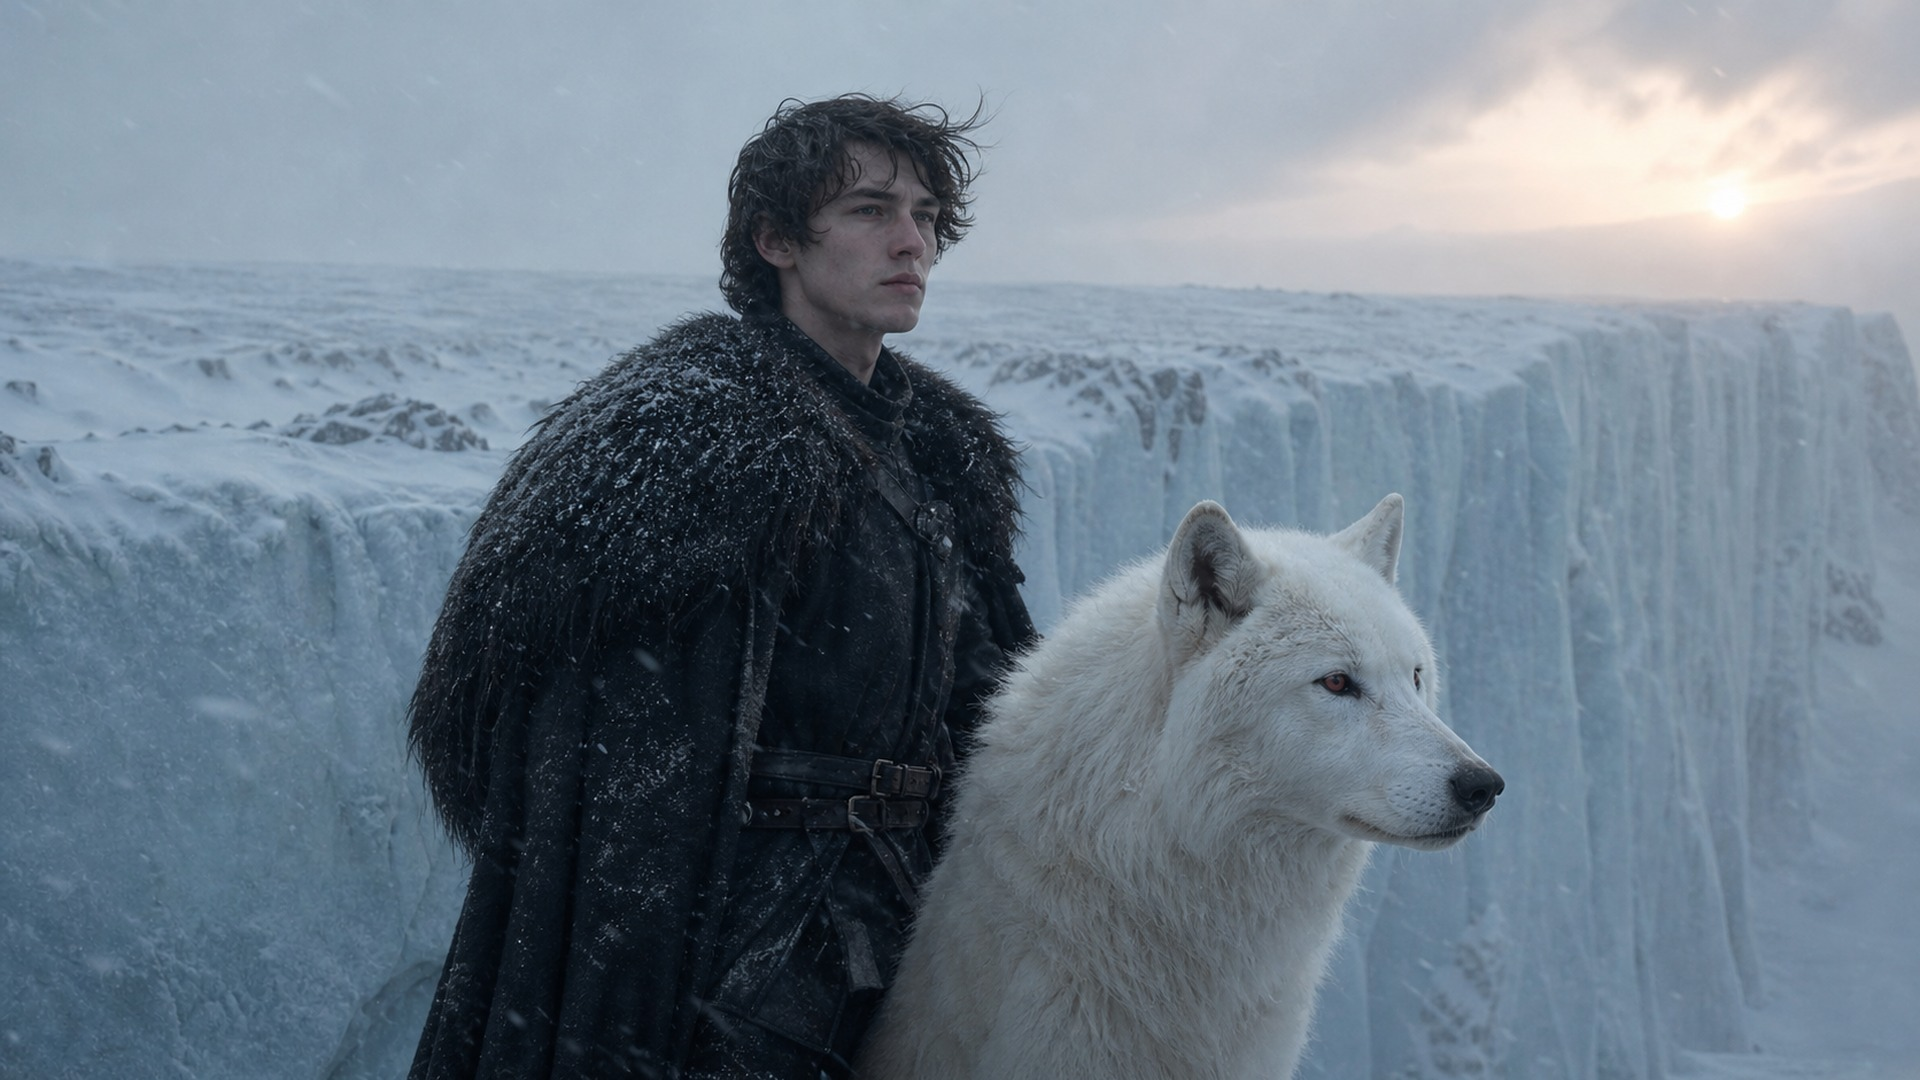
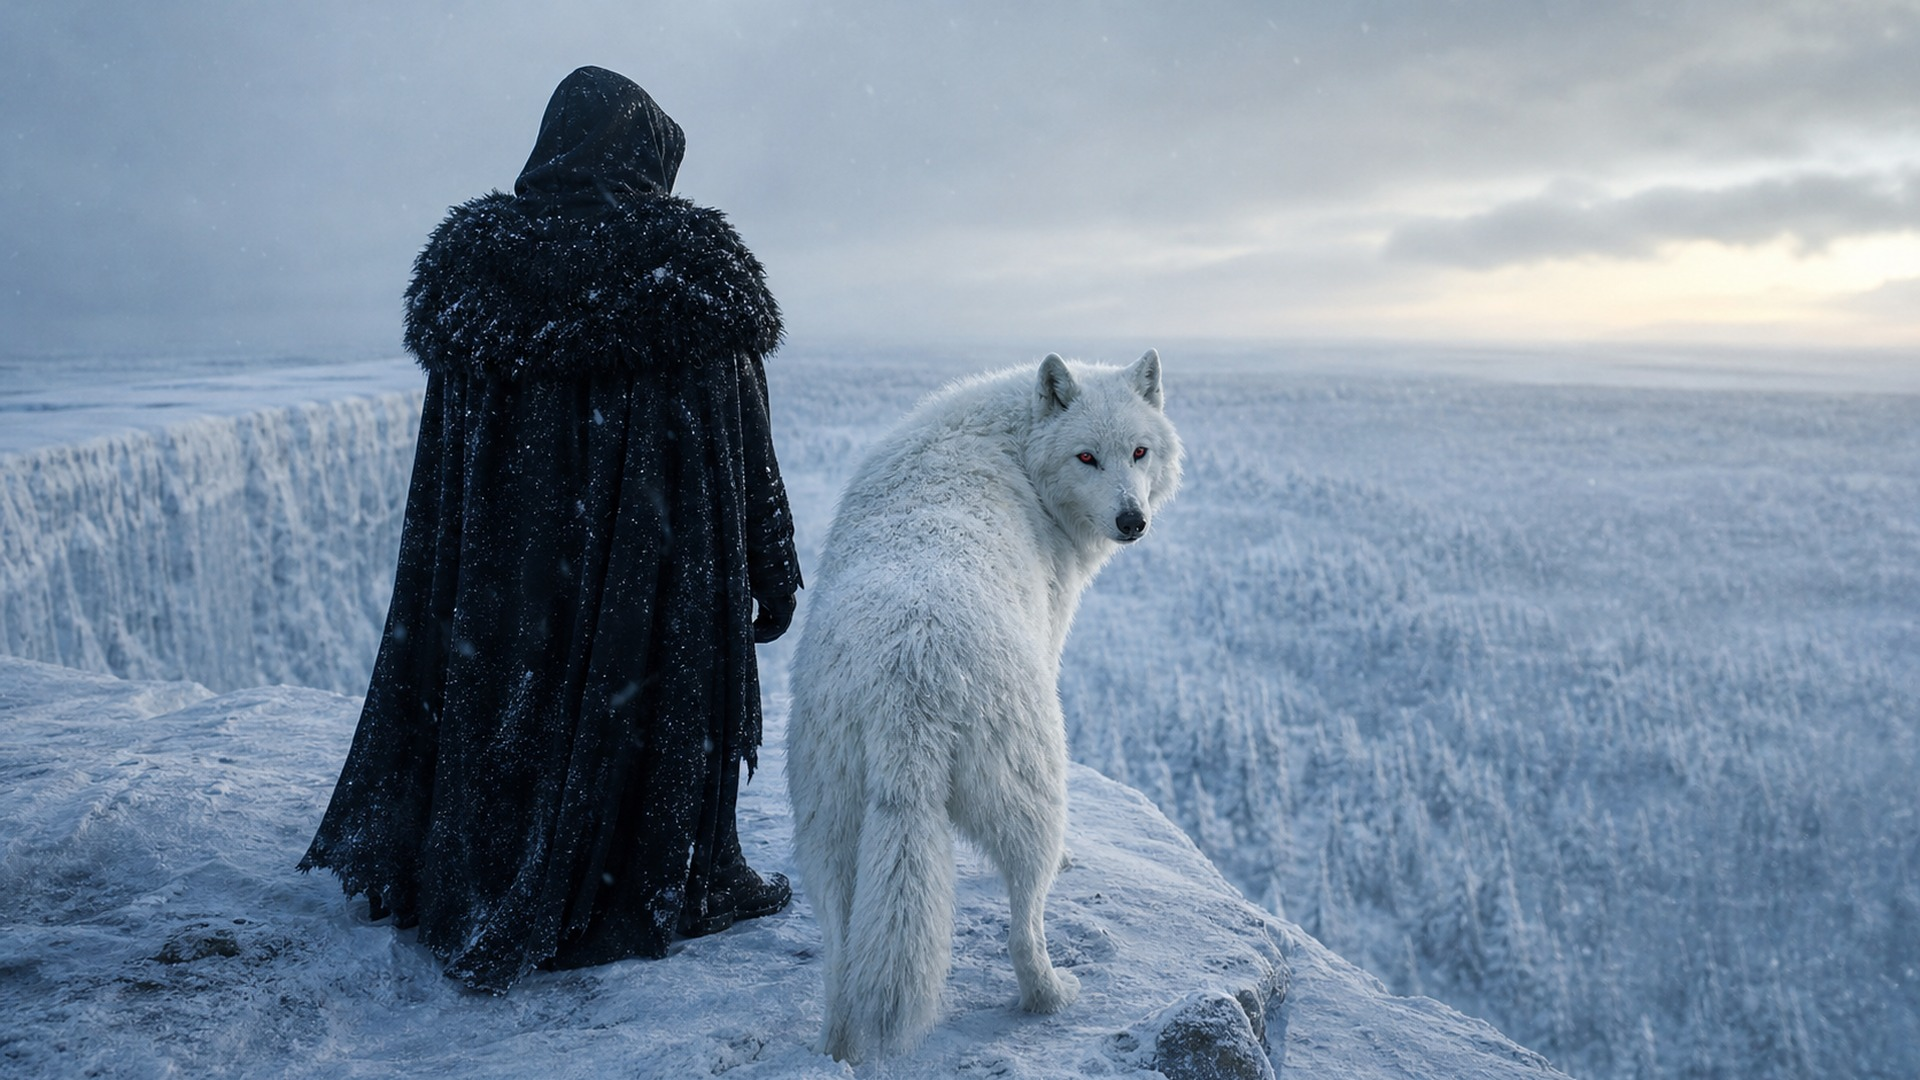
GOT003: BATCH018 9/10; gap-fill BATCH019 3 PASS; tracker v2.91

diff --git a/projects/dune_archives/tools/plans/got003_plan.py b/projects/dune_archives/tools/plans/got003_plan.py
@@ -216,7 +216,18 @@ PLAN = [
  ('X', 37, None, N('GOLDEN_COMPANY_LANDING', 'EW', [], 'a fleet of ships beached on a stormy rocky shore, an army of sellswords in gilded armour wading ashore under plain cloth-of-gold banners on poles topped with gilded skulls, grey sea, rain, a ruined castle on the cliffs above, invasion and ambition, seen from a distance'), 'PAN_RL'),
  ('X', 42, None, N('JON_WALL', 'MS', [], 'seen from behind, a lean young man in the black wool and fur cloak of the Night\'s Watch with a hood up, his face completely hidden, standing on top of the immense Wall of ice at dawn, beside him in sharp focus a large silent pure-white direwolf with red eyes looking back over its shoulder at the viewer, snow blowing, endless white forest to the north, restrained'), 'PUSH_IN'),
  ('X', 47, None, N('CRYPT_LYANNA', 'MS', [], 'a long dark vaulted crypt beneath a northern castle lit by a single torch, rows of stone statues of seated lords with stone direwolves at their feet, in front of one statue of a beautiful young woman carved in grey granite, a single pale blue winter rose lies on the stone, solemn, no living people'), 'PUSH_IN'),
- ('X', 51, None, N('IRON_THRONE_EMPTY', 'EW', [], 'a vast dim throne hall, an enormous ugly asymmetric throne of hundreds of fused jagged swords, empty, standing atop steep steps, a shaft of grey light with dust motes falling across it, the tall windows dark, waiting and unresolved, NO people'), 'PUSH_IN'),
+ ('X', 51, None, N('IRON_THRONE_EMPTY', 'EW', [], 'a vast quiet throne hall in soft grey morning light, a towering lopsided iron throne forged from many old blackened blades, empty, standing at the top of a flight of steps, dust motes drifting in a beam of window light, a peaceful waiting stillness, NO people'), 'PUSH_IN'),
  ('X', 52, None, N('BLANK_BOOK', 'CU', [], 'close-up of a large leather-bound book lying open on a desk by candlelight, its thick cream pages completely blank and empty, a quill resting across it and an inkpot beside it, a single red dragon-scale bookmark, waiting, no writing at all'), 'PUSH_IN'),
  ('X', 56, None, N('FINAL_DAWN', 'EW', [], 'a slender silhouetted woman standing alone on a high ridge above a sea of grass at dawn, a colossal black dragon with red-veined wings rising behind her, spreading its wings against a blazing orange sunrise, embers drifting, hopeful and ominous, epic final shot, no face visible'), 'PULL_OUT'),
+ # --- gap fills (appended; timeline builder must sort by section order + sentence idx) ---
+ ('IV', 24, None, N('JAEHAERYS_GRIEF', 'MS', [], 'an elderly king and queen in their sixties, he with a long silver beard, she with silver hair coiled in braids, invented original faces, in black mourning, standing hand in hand in a candlelit crypt before a row of many small stone tombs and effigies, grief, restrained, seen in three-quarter profile'), 'PUSH_IN'),
+ ('IV', 37, None, N('OLD_KING_MOURNED', 'EW', [], 'a great medieval city on a river at dusk draped in black mourning banners, bells ringing in many towers, crowds of smallfolk kneeling silently in the streets as a long torchlit funeral procession winds up toward a red castle on a hill, solemn and vast'), 'PULL_OUT'),
+ ('V', 13, None, N('ALICENT_SONS', 'MS', [], 'a graceful queen with long auburn hair in a deep green gown, seen in profile, her hand resting on the shoulder of one of three small silver-haired boys of different ages seen from behind, looking up at a great throne in a sunlit hall, quiet ambition, faces of the boys not visible'), 'PUSH_IN'),
+ ('V', 22, None, N('GREENS_BLACKS', 'EW', [], 'a vast medieval throne hall split down the middle, on the left lords and ladies dressed in green, on the right lords and ladies in black and red, a wide empty aisle of stone floor between them leading to a great throne, tense silence, no clear faces'), 'PUSH_IN'),
+ ('V', 31, None, N('DARK_HAIRED_SONS', 'MS', [], 'three young dark-haired brown-eyed noble boys of about eight, ten and twelve, invented original faces, sparring with wooden swords in a castle yard, a tall silver-haired lord in sea-green watching them from a balcony behind, courtiers whispering behind their hands, summer light'), 'DRIFT'),
+ ('V', 85, None, N('POISONED_CUP', 'CU', [], 'close-up of an ornate golden goblet standing on a dark wooden table beside a heavy golden crown and a guttering candle, an empty great chair behind blurred, a single dried rose petal beside the cup, silent and ominous, no people, no liquid spilled'), 'PUSH_IN'),
+ ('V', 88, None, N('DRAGON_SKULLS', 'EW', [], 'a long dim torchlit stone hall lined on both sides with enormous black dragon skulls of different sizes, their teeth like black swords, the largest as big as a cart, dust in the torchlight, sorrowful and awesome, no people'), 'PUSH_IN'),
+ ('V', 90, None, N('BOY_KING_DRAGONBANE', 'EW', [], 'a vast dark throne hall, a very small thin figure in a black cloak sitting hunched and alone far away on an enormous jagged throne of swords, face unseen in shadow, empty floor and cold grey light, lonely and haunted'), 'PULL_OUT'),
+ ('VI', 46, None, N('BASTARDS_DEATHBED', 'MS', [], 'a dying grossly fat old king with a sagging face, invented original face, propped on pillows in a vast curtained bed, pressing a heavy seal ring into red wax on a parchment held by a grey-robed maester, candles, decadent chamber, restrained, no readable writing'), 'PUSH_IN'),
+ ('VI', 50, None, N('SEED_OF_WAR', 'CU', [], 'close-up of a black-bladed Valyrian steel longsword with rippled dark steel and a ruby pommel laid across a red wax-sealed scroll on a dark table, a quill and a guttering candle beside it, embers, ominous, no readable writing'), 'PUSH_IN'),
 ]

diff --git a/projects/dune_archives/00_master/MASTER_INDEX_AND_TRACKER.md b/projects/dune_archives/00_master/MASTER_INDEX_AND_TRACKER.md
@@ -767,5 +767,6 @@ Index/QC v21 Doc: `1Xd5uubuVr8HSOOF7w4-m3S2es9A0PhxvI7hFvTYLZpw`. S012/S016 turn
 | v2.88 | 2026-11-28 | GOT003 S146 redo + S149 woods witch + S150 Aerys/Rhaella wedding PASS → BATCH015 10/10. Plan extended into IX (160 stills). BATCH016 S151–S157 PASS (young Aerys, Tywin as Hand, Duskendale, Barristan's rescue, the Mad King, Harrenhal tourney, blue winter roses). S158–S160 pending. 157/160. |
 | v2.89 | 2026-11-28 | GOT003 S158 Trident, S159 Ruby Ford, S160 Burn them all PASS → BATCH016 10/10. Plan extended into X (170 stills). BATCH017 S161, S162, S164–S167 PASS (Tower of Joy, blue rose petals, smuggled to Braavos, red door, beggar king, three eggs). S163 DRAGONSTONE_STORM call failed (bad ref path) → retry; S168–S170 pending. 166/170. |
 | v2.90 | 2026-11-28 | GOT003 S163 Dragonstone storm (retry, ref S028), S168 pyre, S169 Unburnt, S170 hatchlings PASS → BATCH017 10/10. Plan extended to X-56 (180 stills, all narrative sections covered). BATCH018 S171 Meereen, S172 Drogon, S174 Young Griff, S175 Golden Company landing PASS; **S173 Aemon's voyage + S176 Jon on the Wall REDO** (actor-likeness risk → from behind). S177–S180 pending. 174/180. |
+| v2.91 | 2026-11-28 | GOT003 S173 + S176 redos PASS; S177 Lyanna crypt, S179 blank book, S180 final dawn PASS. S178 IRON_THRONE_EMPTY blocked by content filter → body rephrased. Gap-fill rows S181–S190 appended (IV24, IV37, V13, V22, V31, V85, V88, V90, VI46, VI50 — timeline must sort by section+idx). BATCH019 S181 Jaehaerys grief, S182 Old King mourned, S184 greens vs blacks PASS; S183 call failed (bad ref path) → retry. 182/190. |
 
 > Turn 22 note: the old manifests v11, continuity v1.4 and original tracker Doc have their Drive descriptions set to SUPERSEDED, pointing at the new IDs above. The Drive tracker v2.12 Doc is a snapshot taken before its own ID was added here.
